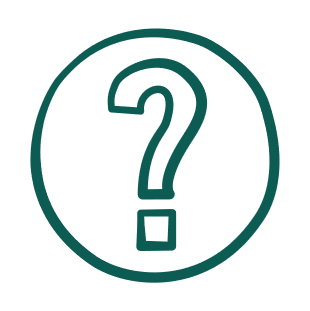
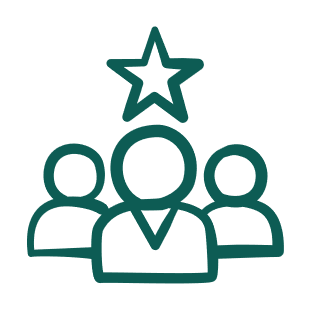
Fixed mobile view of homepage.

Changed region(s): [[0.0871, 0.0868, 0.929, 0.926]]

diff --git a/app/page.module.css b/app/page.module.css
@@ -40,9 +40,18 @@
 }
 
 @media (max-width: 768px) {
+  .homeHero {
+    padding: 2.5rem 0 3rem;
+  }
+
   .heroInner {
     grid-template-columns: 1fr;
-    gap: 2rem;
+    gap: 1rem;
+  }
+
+  .heroImage {
+    width: 100%;
+    max-height: 260px;
   }
 }
 
